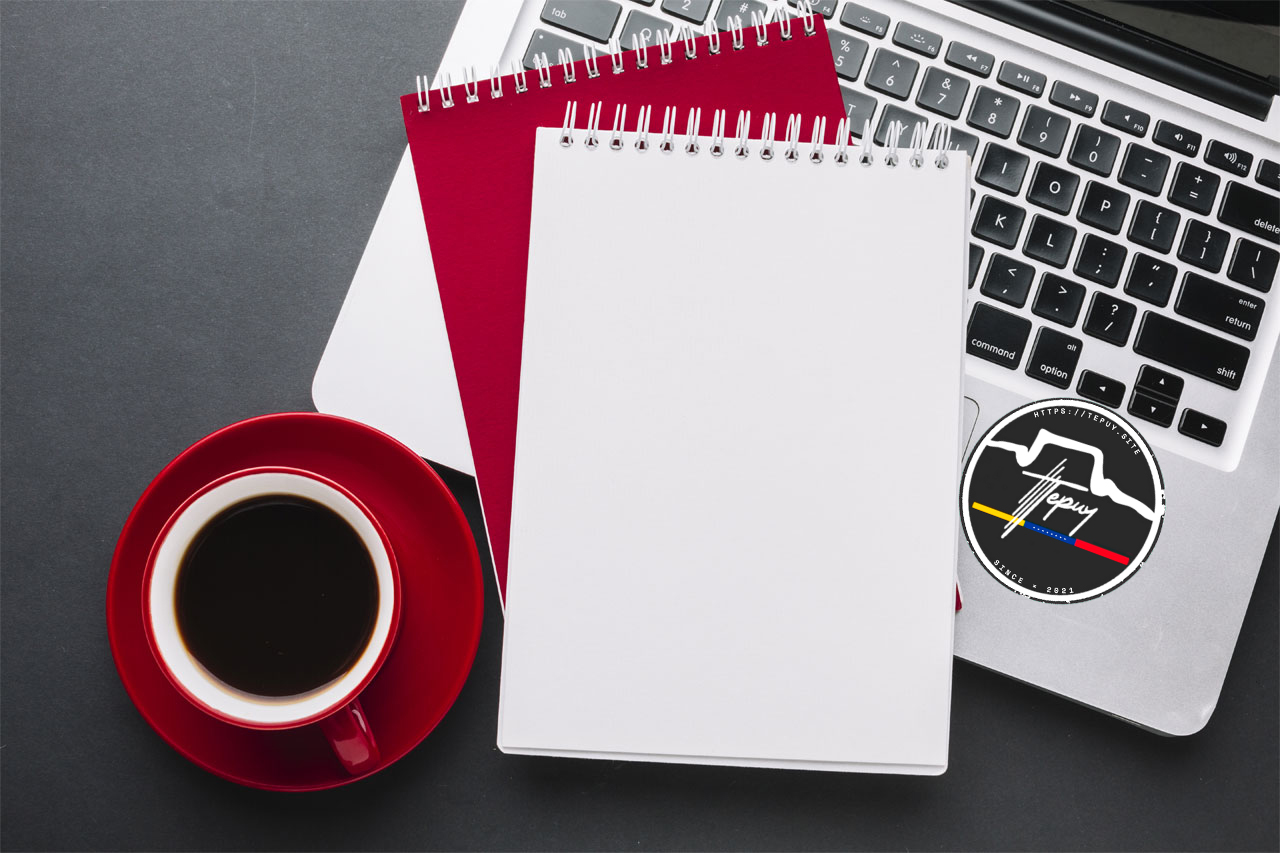
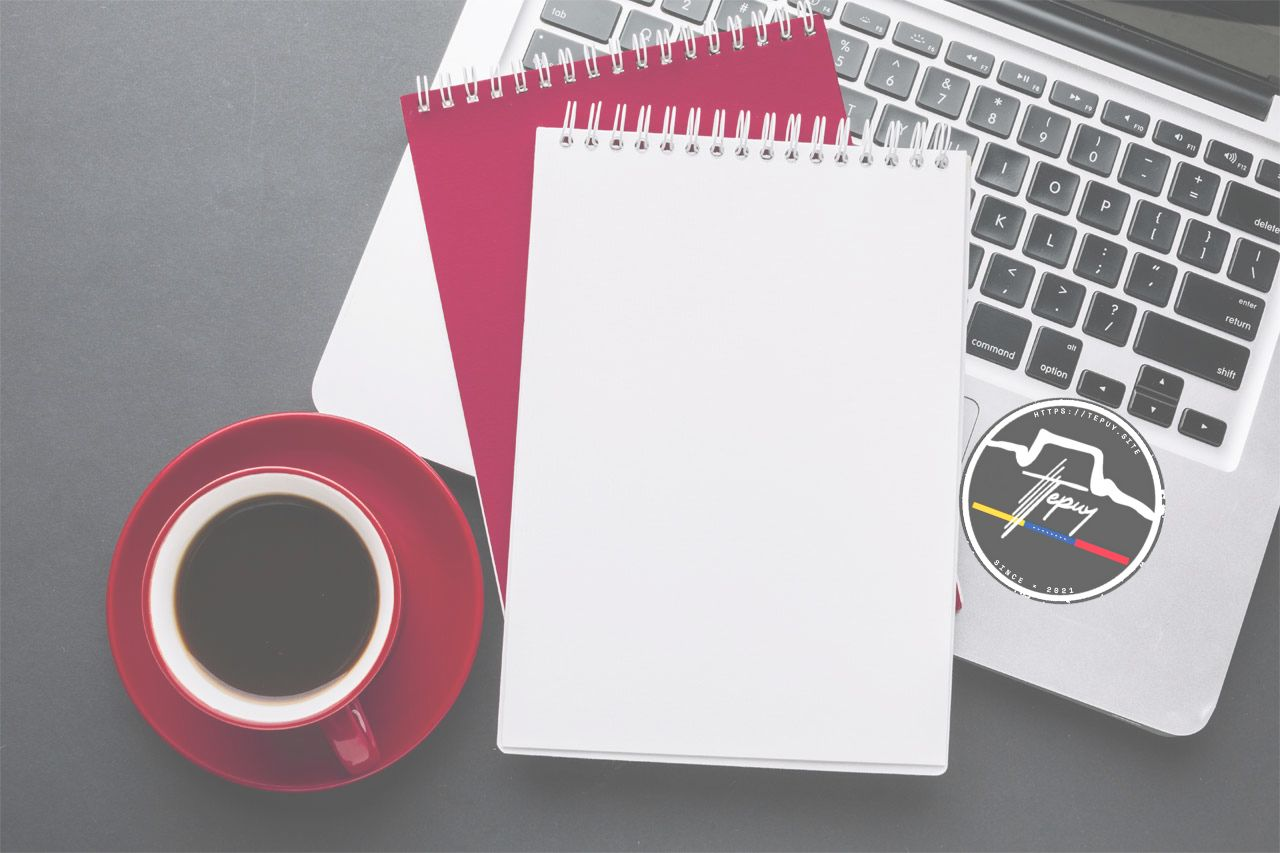
pf07

diff --git a/style.css b/style.css
@@ -1,9 +1,9 @@
 @import url('https://fonts.googleapis.com/css?family=Karla:400,700&display=swap');
 
 :root {
-    --bgColor: hwb(216 85% 13%);
-    --bgColor2: hsl(227, 14%, 80%);
-    --accentColor: rgba(9, 4, 36, 0.87);
+    --bgColor: hwb(216 27% 39%);
+    --bgColor2: hwb(223 35% 51%);
+    --accentColor: rgba(79, 113, 158, 0.705);
     --font: 'Karla', sans-serif;
     --delay: .3s;
 }
@@ -14,7 +14,7 @@ body {
     min-height: 100vh;
     font-family: var(--font);
     /* background: radial-gradient(ellipse at bottom, var(--bgColor) 0%, var(--bgColor2) 100%); */
-    background-image: url('https://qr.tepuy.site/bg7.jpg');
+    background-image: url('https://qr.tepuy.site/bg6.jpg');
     opacity: 0;
     animation: 1s ease-out var(--delay) 1 transitionAnimation; /* duration/timing-function/delay/iterations/name */
     animation-fill-mode: forwards;

diff --git a/index.html b/index.html
@@ -33,7 +33,8 @@
           </a>
         </div>
         <div class="popup-quote">
-          TEPUY. Somos un emprendimiento que apostamos a nuestro país y al crecimiento continuo!!!. Prestamos servicios de IT (Servicio Técnico PC / Laptop / Impresoras, Redes Informáticas, Servidores, Servicios Cloud, Hosting, páginaWeb y mucho más!!!) También traemos para Ud tienda OnLine con productos varios, nuevos y con historia.
+          Somos TEPUY, un equipo de emprendedores venezolanos apasionados por la tecnología. Desarrollamos soluciones innovadoras y personalizadas para nuestros clientes, utilizando técnicas de vanguardia.
+		  Conoce más sobre nosotros y cómo podemos ayudarte. ¡Contáctanos!
         </div>
         <a class="popup-close" onclick="history.back()">&times;</a>
       </div>
